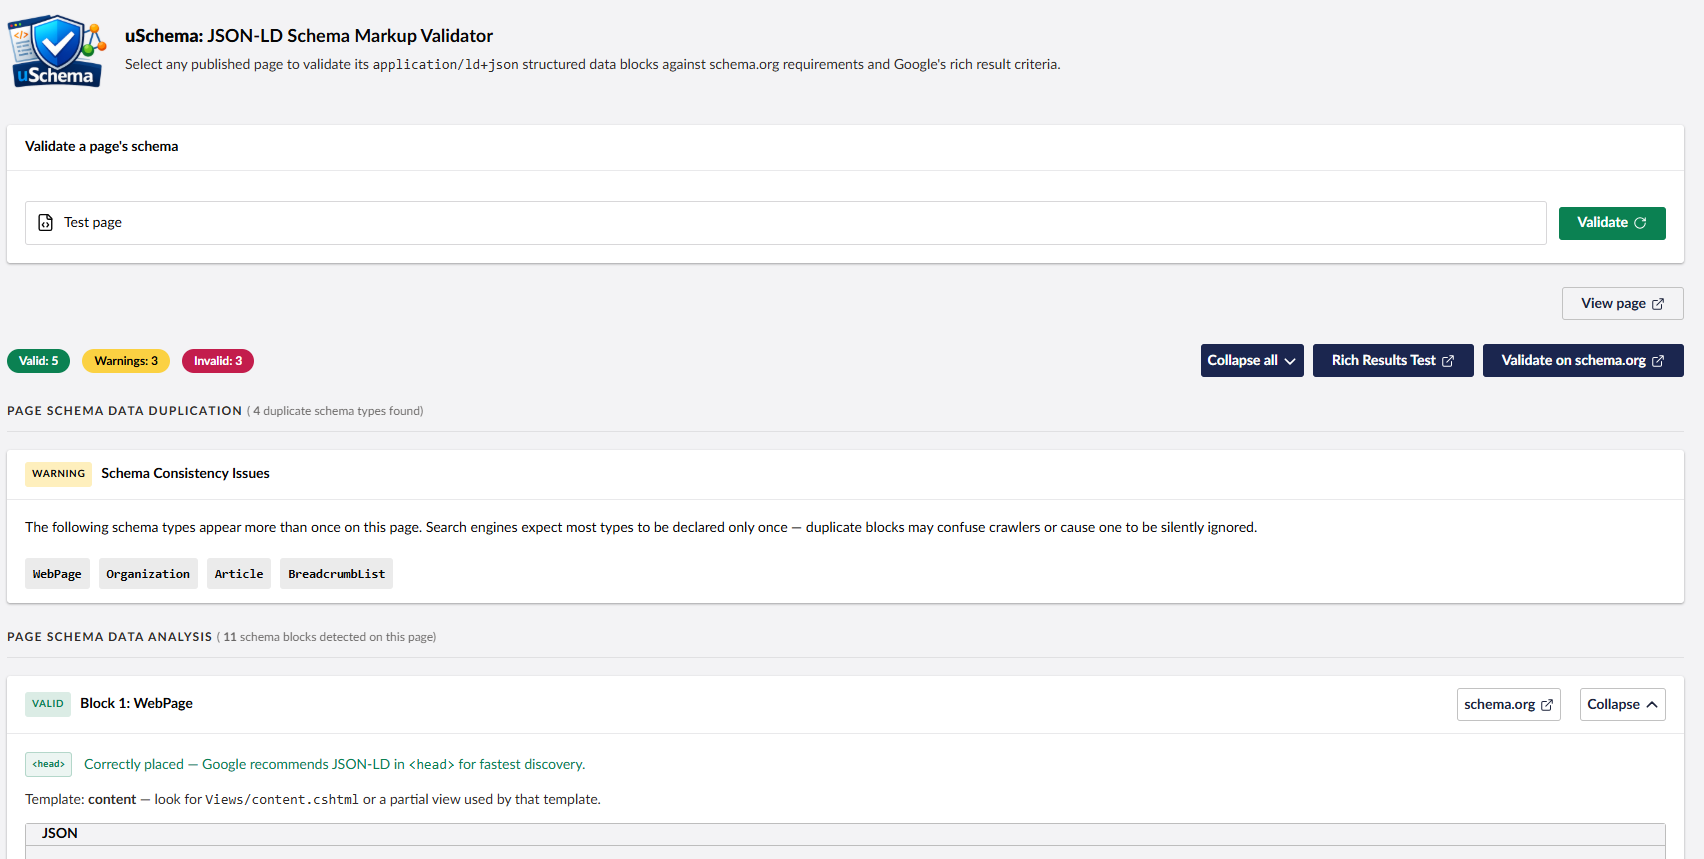
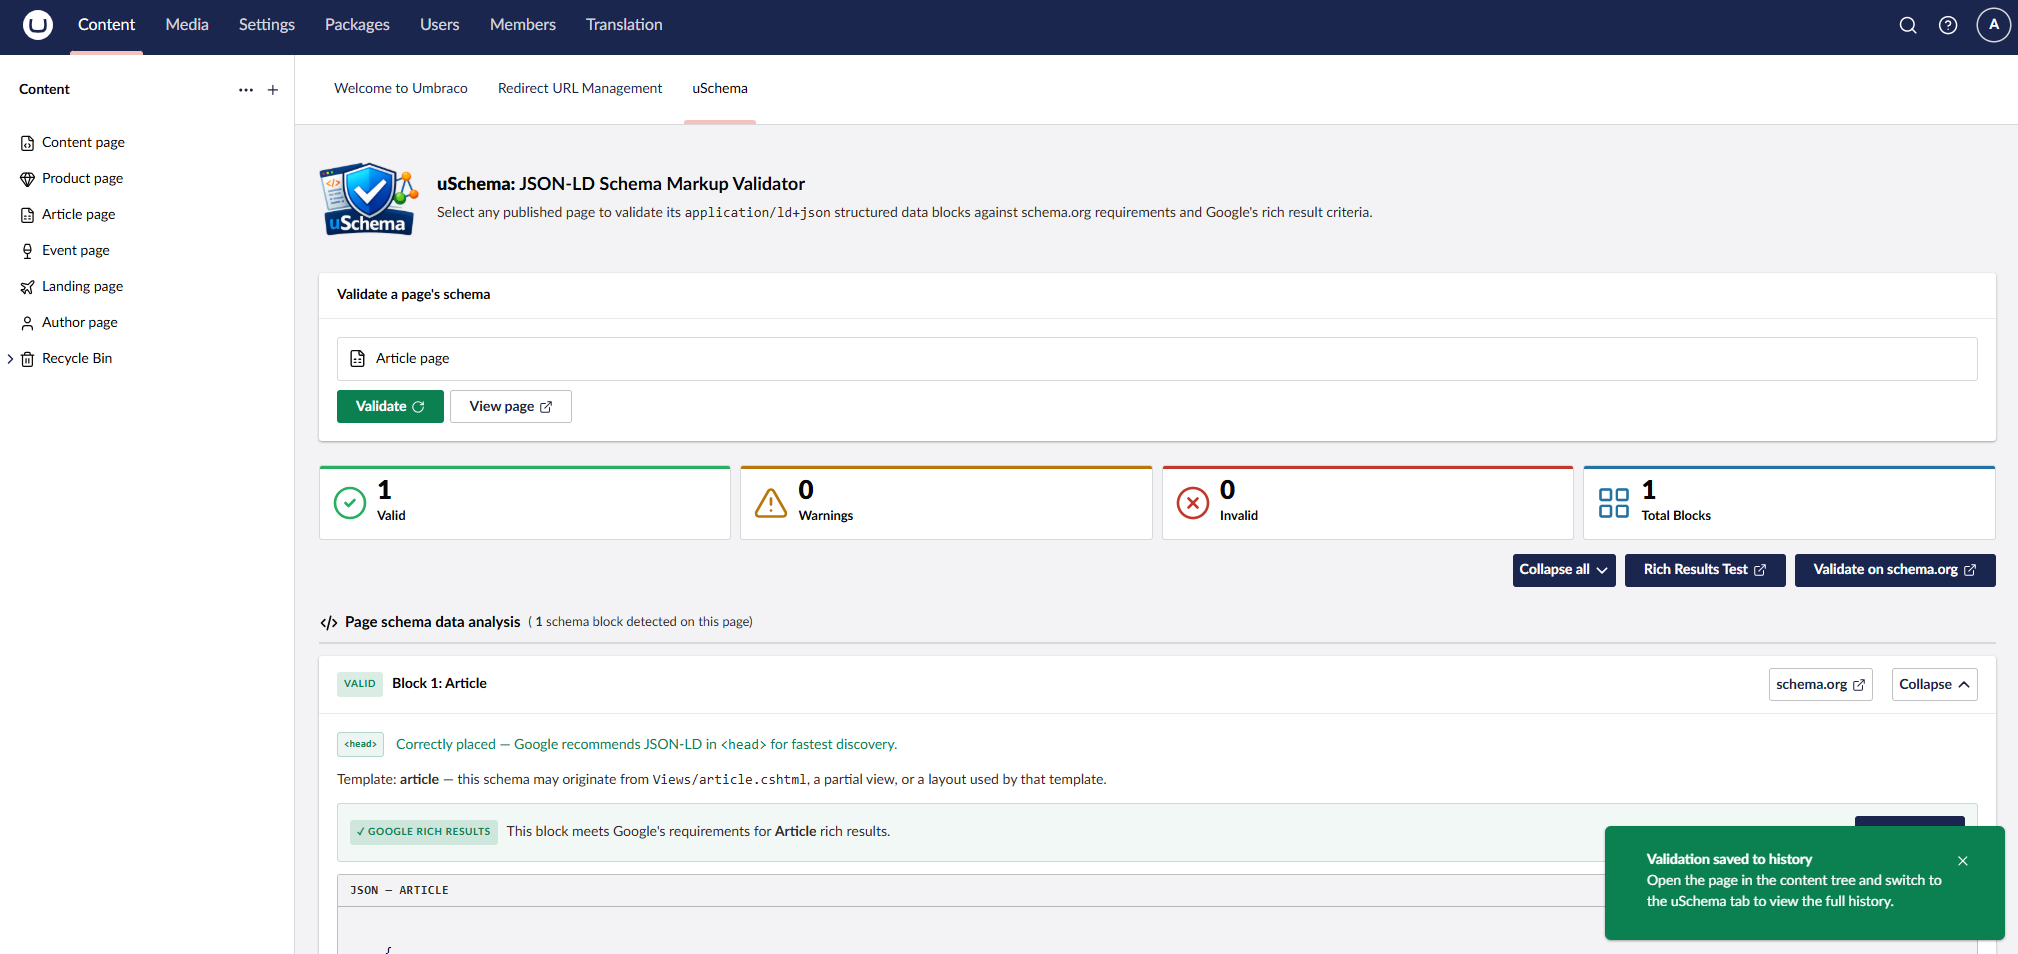
[UPDATE] - READMEs, CHANGELOG, and screenshots for v1.1.0

diff --git a/README.md b/README.md
@@ -9,7 +9,7 @@ Validate the JSON-LD structured data on your published Umbraco content pages —
 
 uSchema adds a **Schema** tab to every content node workspace and a **uSchema** dashboard. Both fetch the live published page, parse every `<script type="application/ld+json">` block, and validate each one against schema.org recommendations.
 
-![uSchema workspace tab showing JSON-LD validation results](docs/uSchema_preview-001.png)
+![uSchema dashboard showing a validated Article page with summary stats and block detail](docs/uSchema_preview-001.png)
 
 ## Features
 
@@ -17,11 +17,23 @@ uSchema adds a **Schema** tab to every content node workspace and a **uSchema** 
 - **uSchema dashboard** — pick any published page by name and validate it on demand
 - **At-a-glance status** — each JSON-LD block is marked Valid, Warning, or Invalid with a summary count
 - **Error & warning detail** — clear descriptions of what's missing or incorrect, with direct links to schema.org and Google documentation
-- **Annotated JSON examples** — colour-coded view showing exactly which properties need adding
+- **Annotated JSON examples** — colour-coded view showing exactly which properties need adding or correcting, with a "Suggested fix" block that addresses all flagged issues at once
+- **Google Rich Results eligibility** — per-block status showing whether the block meets Google's requirements, which required fields are missing, and a direct link to Google's Rich Results documentation for that type
 - **Broad schema type support** — 30+ types including Article, NewsArticle, WebPage, Organization, BreadcrumbList, FAQPage, LocalBusiness, Product, Event, Recipe, Person, WebSite, VideoObject, HowTo, JobPosting, and more
 - **`@graph` block support** — multi-entity JSON-LD documents are fully parsed
-- **Source location indicator** — shows whether each block is in `<head>` or `<body>`, with advice on placement and a hint pointing to the responsible Razor view based on the content type alias (e.g. `Views/BlogPost.cshtml`)
+- **Source location indicator** — shows whether each block is in `<head>` or `<body>`, with advice on placement and a hint suggesting the responsible Razor view based on the content type alias
 - **Duplicate type detection** — warns when the same schema type appears in multiple blocks
+- **Schema type suggestions** — when a page has no JSON-LD markup, uSchema can suggest an appropriate schema type based on the document type and display a ready-to-use example block; configured via `appsettings.json`
+- **Validation history** — per-page history of recent scans in the workspace tab; load any previous result in full, with the most recent scan highlighted on load
+- **Collapse / expand controls** — collapse all blocks at once or toggle individual ones
+
+## What it doesn't do
+
+- **Does not audit unpublished pages** — the page must have a published URL reachable from the server
+- **Does not run scheduled or background scans** — validation is on-demand only, triggered from the workspace tab or dashboard
+- **Does not fix issues** — it identifies and explains problems; remediation is done by your developers
+- **Does not guarantee schema.org compliance** — automated validation covers required and recommended properties for known types; bespoke or unusual schema usage may not be fully evaluated
+- **Does not validate authenticated pages** — pages behind a login or bot-protection cannot be fetched
 
 ## Requirements
 
@@ -52,11 +64,36 @@ No configuration is required. After installing and restarting your site, the **S
 
 > **Note:** The page must be published for validation to work. Unpublished pages cannot be fetched.
 
+## Configuration
+
+### Schema type suggestions (optional)
+
+To enable schema type suggestions for pages with no JSON-LD markup, add a `uSchema` section to your `appsettings.json`:
+
+```json
+"uSchema": {
+  "DocumentTypeSchemaMap": {
+    "blogPost": "Article",
+    "product": "Product",
+    "eventPage": "Event",
+    "landingPage": "WebPage"
+  }
+}
+```
+
+Keys are your Umbraco document type aliases; values are the schema.org types uSchema will suggest when a page of that type has no markup. When a match is found, uSchema displays a ready-to-use example block alongside setup instructions.
+
 ## Screenshots
 
-![uSchema workspace tab](docs/uSchema_preview-001.png)
+![uSchema dashboard showing a validated Article page with summary stats and block detail](docs/uSchema_preview-001.png)
 
-![uSchema dashboard](docs/uSchema_preview-002.png)
+![uSchema workspace tab showing warnings, duplicate schema type detection, and a WebPage block with errors](docs/uSchema_preview-002.png)
+
+![uSchema workspace tab showing duplicate schema types and a WebPage block with validation detail](docs/uSchema_preview-003.png)
+
+![uSchema workspace tab showing validation history, a valid Product block, and Google Rich Results eligibility](docs/uSchema_preview-004.png)
+
+![uSchema workspace tab showing no schema found, an Author schema suggestion, and the configuration guide](docs/uSchema_preview-005.png)
 
 ## Contributing
 

diff --git a/docs/README_nuget.md b/docs/README_nuget.md
@@ -9,18 +9,23 @@ Validate the JSON-LD structured data on your published Umbraco content pages —
 
 uSchema adds a **Schema** tab to every content node workspace and a **uSchema** dashboard. Both fetch the live published page, parse every `<script type="application/ld+json">` block, and validate each one against schema.org recommendations.
 
-![uSchema workspace tab showing JSON-LD validation results](https://raw.githubusercontent.com/Jordan-Smith-Dev/uSchema/main/docs/uSchema_preview-001.png)
+![uSchema dashboard showing a validated Article page with summary stats and block detail](https://raw.githubusercontent.com/Jordan-Smith-Dev/uSchema/main/docs/uSchema_preview-001.png)
 
 ## Features
 
 - **Schema workspace tab** — validates the page you're editing without leaving the content node
-- **Schema dashboard** — pick any published page by name and validate it on demand
+- **uSchema dashboard** — pick any published page by name and validate it on demand
 - **At-a-glance status** — each JSON-LD block is marked Valid, Warning, or Invalid with a summary count
 - **Error & warning detail** — clear descriptions of what's missing or incorrect, with direct links to schema.org and Google documentation
-- **Annotated JSON examples** — colour-coded view showing exactly which properties need adding
+- **Annotated JSON examples** — colour-coded view showing exactly which properties need adding or correcting, with a "Suggested fix" block that addresses all flagged issues at once
+- **Google Rich Results eligibility** — per-block status showing whether the block meets Google's requirements, which required fields are missing, and a direct link to Google's Rich Results documentation for that type
 - **Broad schema type support** — 30+ types including Article, NewsArticle, WebPage, Organization, BreadcrumbList, FAQPage, LocalBusiness, Product, Event, Recipe, Person, WebSite, VideoObject, HowTo, JobPosting, and more
 - **`@graph` block support** — multi-entity JSON-LD documents are fully parsed
-- **Source location indicator** — shows whether each block is in `<head>` or `<body>`, with advice on placement and a hint pointing to the responsible Razor view based on the content type alias (e.g. `Views/BlogPost.cshtml`)
+- **Source location indicator** — shows whether each block is in `<head>` or `<body>`, with advice on placement and a hint suggesting the responsible Razor view based on the content type alias
+- **Duplicate type detection** — warns when the same schema type appears in multiple blocks
+- **Schema type suggestions** — when a page has no JSON-LD markup, uSchema can suggest an appropriate schema type based on the document type and display a ready-to-use example block; configured via `appsettings.json`
+- **Validation history** — per-page history of recent scans in the workspace tab; load any previous result in full, with the most recent scan highlighted on load
+- **Collapse / expand controls** — collapse all blocks at once or toggle individual ones
 
 ## Requirements
 
@@ -51,7 +56,30 @@ No configuration is required. After installing and restarting your site, the **S
 
 > **Note:** The page must be published for validation to work. Unpublished pages cannot be fetched.
 
-![uSchema dashboard](https://raw.githubusercontent.com/Jordan-Smith-Dev/uSchema/main/docs/uSchema_preview-002.png)
+## Configuration
+
+### Schema type suggestions (optional)
+
+To enable schema type suggestions for pages with no JSON-LD markup, add a `uSchema` section to your `appsettings.json`:
+
+```json
+"uSchema": {
+  "DocumentTypeSchemaMap": {
+    "blogPost": "Article",
+    "product": "Product",
+    "eventPage": "Event",
+    "landingPage": "WebPage"
+  }
+}
+```
+
+Keys are your Umbraco document type aliases; values are the schema.org types uSchema will suggest when a page of that type has no markup.
+
+![uSchema workspace tab showing warnings, duplicate schema type detection, and a WebPage block with errors](https://raw.githubusercontent.com/Jordan-Smith-Dev/uSchema/main/docs/uSchema_preview-002.png)
+
+![uSchema workspace tab showing validation history, a valid Product block, and Google Rich Results eligibility](https://raw.githubusercontent.com/Jordan-Smith-Dev/uSchema/main/docs/uSchema_preview-004.png)
+
+![uSchema workspace tab showing no schema found, an Author schema suggestion, and the configuration guide](https://raw.githubusercontent.com/Jordan-Smith-Dev/uSchema/main/docs/uSchema_preview-005.png)
 
 ## Source & Issues
 

diff --git a/CHANGELOG.md b/CHANGELOG.md
@@ -5,6 +5,24 @@ All notable changes to this project will be documented in this file.
 The format is based on [Keep a Changelog](https://keepachangelog.com/en/1.0.0/),
 and this project adheres to [Semantic Versioning](https://semver.org/spec/v2.0.0.html).
 
+## [1.1.0] - 2026-03-20
+
+### Added
+- **Validation history** — the workspace tab now stores a per-page history of recent scans; the history table shows the date, time, and block summary for each entry; any previous result can be loaded in full; the most recent scan is highlighted as active on load
+- **Schema type suggestions** — when a page has no JSON-LD markup, uSchema can suggest an appropriate schema type based on the Umbraco document type alias, and displays a ready-to-use example block to help get started; configured via `DocumentTypeSchemaMap` in `appsettings.json`
+- **"Suggested fix" panel** — the annotated JSON block shown for blocks with errors or warnings is now headed with a title and description clarifying that it addresses all flagged issues in the block (not just the last listed item) and that example values should be reviewed before use
+- **Google Rich Results eligibility** — each schema block now shows whether it meets Google's requirements for rich results, lists any missing required fields, and links directly to Google's Rich Results documentation for that type
+
+### Changed
+- Duplicate type detection section is now hidden when no duplicates are found, rather than showing a "0 duplicates" heading
+- Source location template hint reworded as a suggestion ("may originate from...") rather than a definitive file path, to account for layouts and partial views
+- Section headings in the workspace tab and dashboard now include icons and consistent styling
+- JSON viewer blocks are now labelled with the schema type (e.g. "JSON — Article") for clarity
+- Appsettings configuration tip redesigned: clearer copy explaining what keys and values represent, with a clean JSON example
+
+### Fixed
+- History row correctly highlights as active after the initial scan (index 0) without requiring a manual load
+
 ## [1.0.1] - 2026-03-10
 
 ### Fixed
